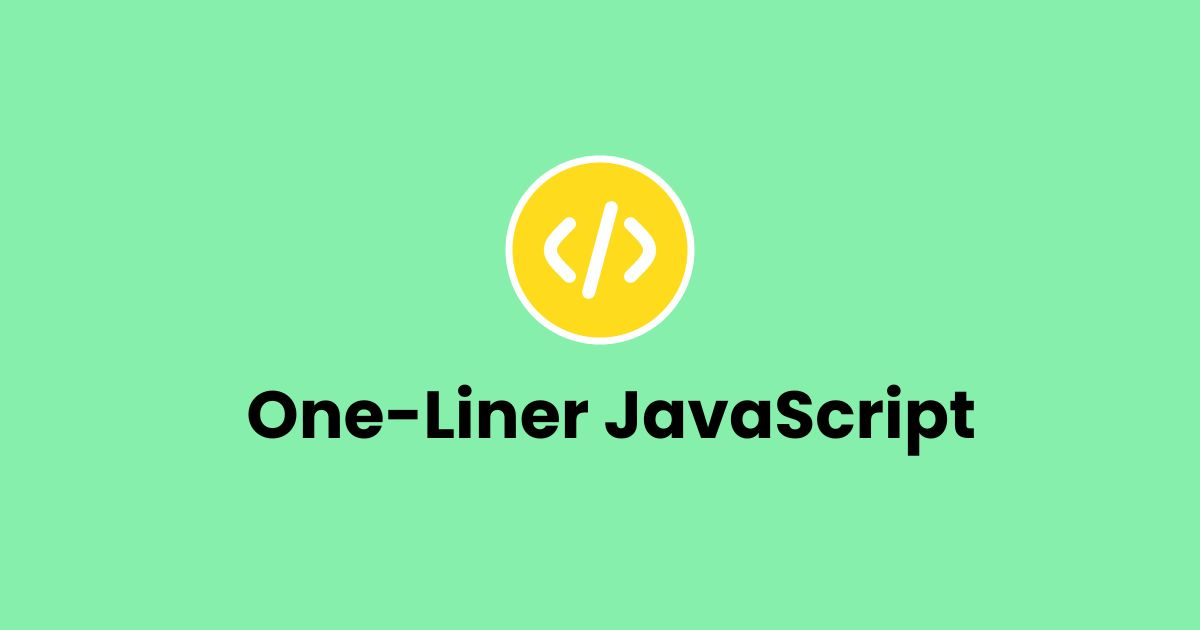
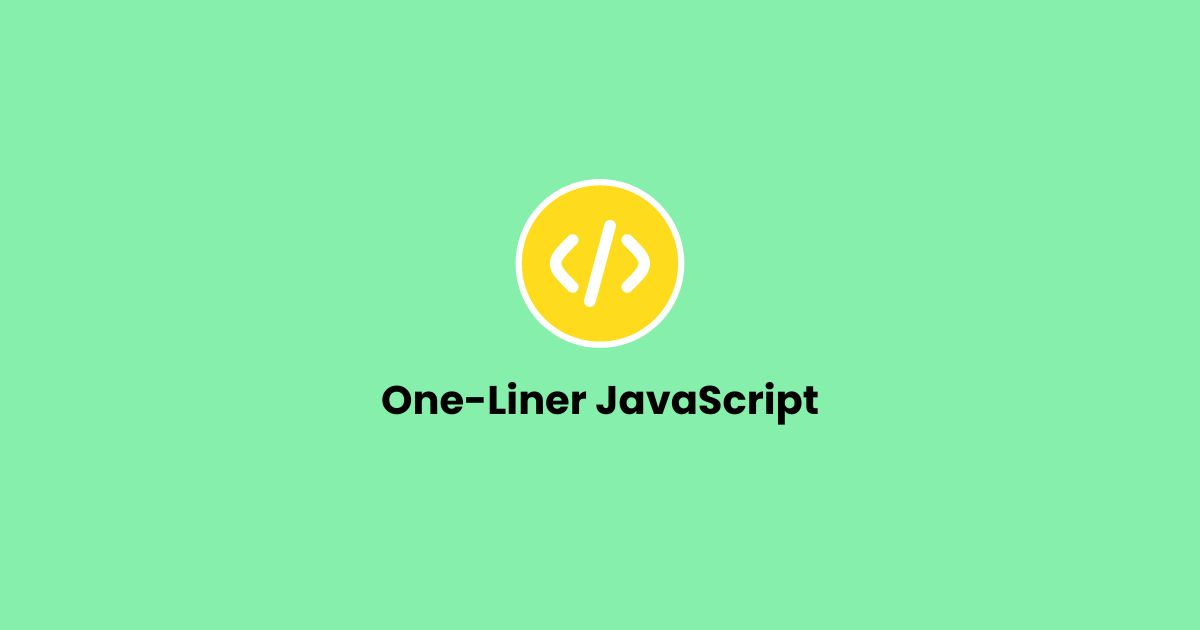
og image update and added height width of og

Changed region(s): [[0.185, 0.6032, 0.8325, 0.7238], [0.4008, 0.2413, 0.5858, 0.5127], [0.4625, 0.5127, 0.555, 0.573]]

diff --git a/routes/_app.tsx b/routes/_app.tsx
@@ -24,7 +24,11 @@ export default function App({ Component }: PageProps) {
           property="og:description"
           content="A collection of one-liner JavaScript snippets for your next project"
         />
+        <meta property="og:image:type" content="image/jpg" />
         <meta property="og:image" content="/og.jpg" />
+        <meta property="og:image:width" content="1200" />
+        <meta property="og:image:height" content="630" />
+        <meta property="og:image:alt" content="One-Liner JavaScript Snippets" />
 
         <meta name="twitter:card" content="summary_large_image" />
         <meta property="twitter:domain" content="one-liner-js.deno.dev" />
